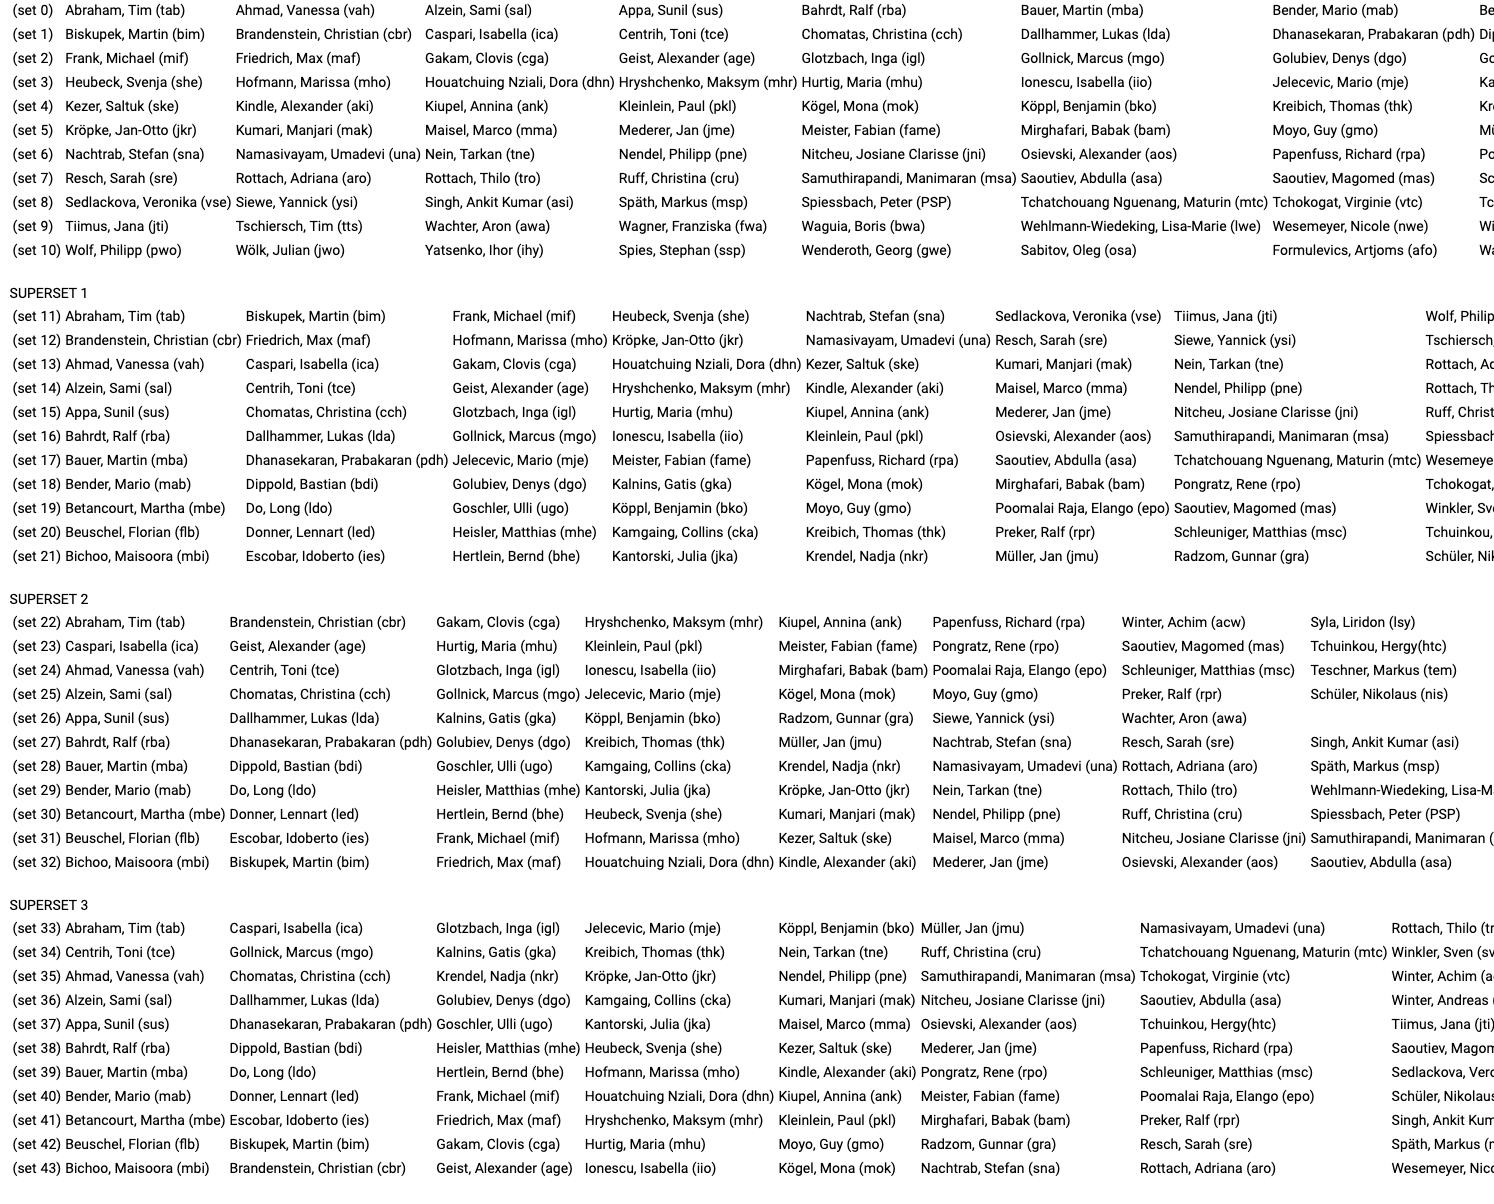
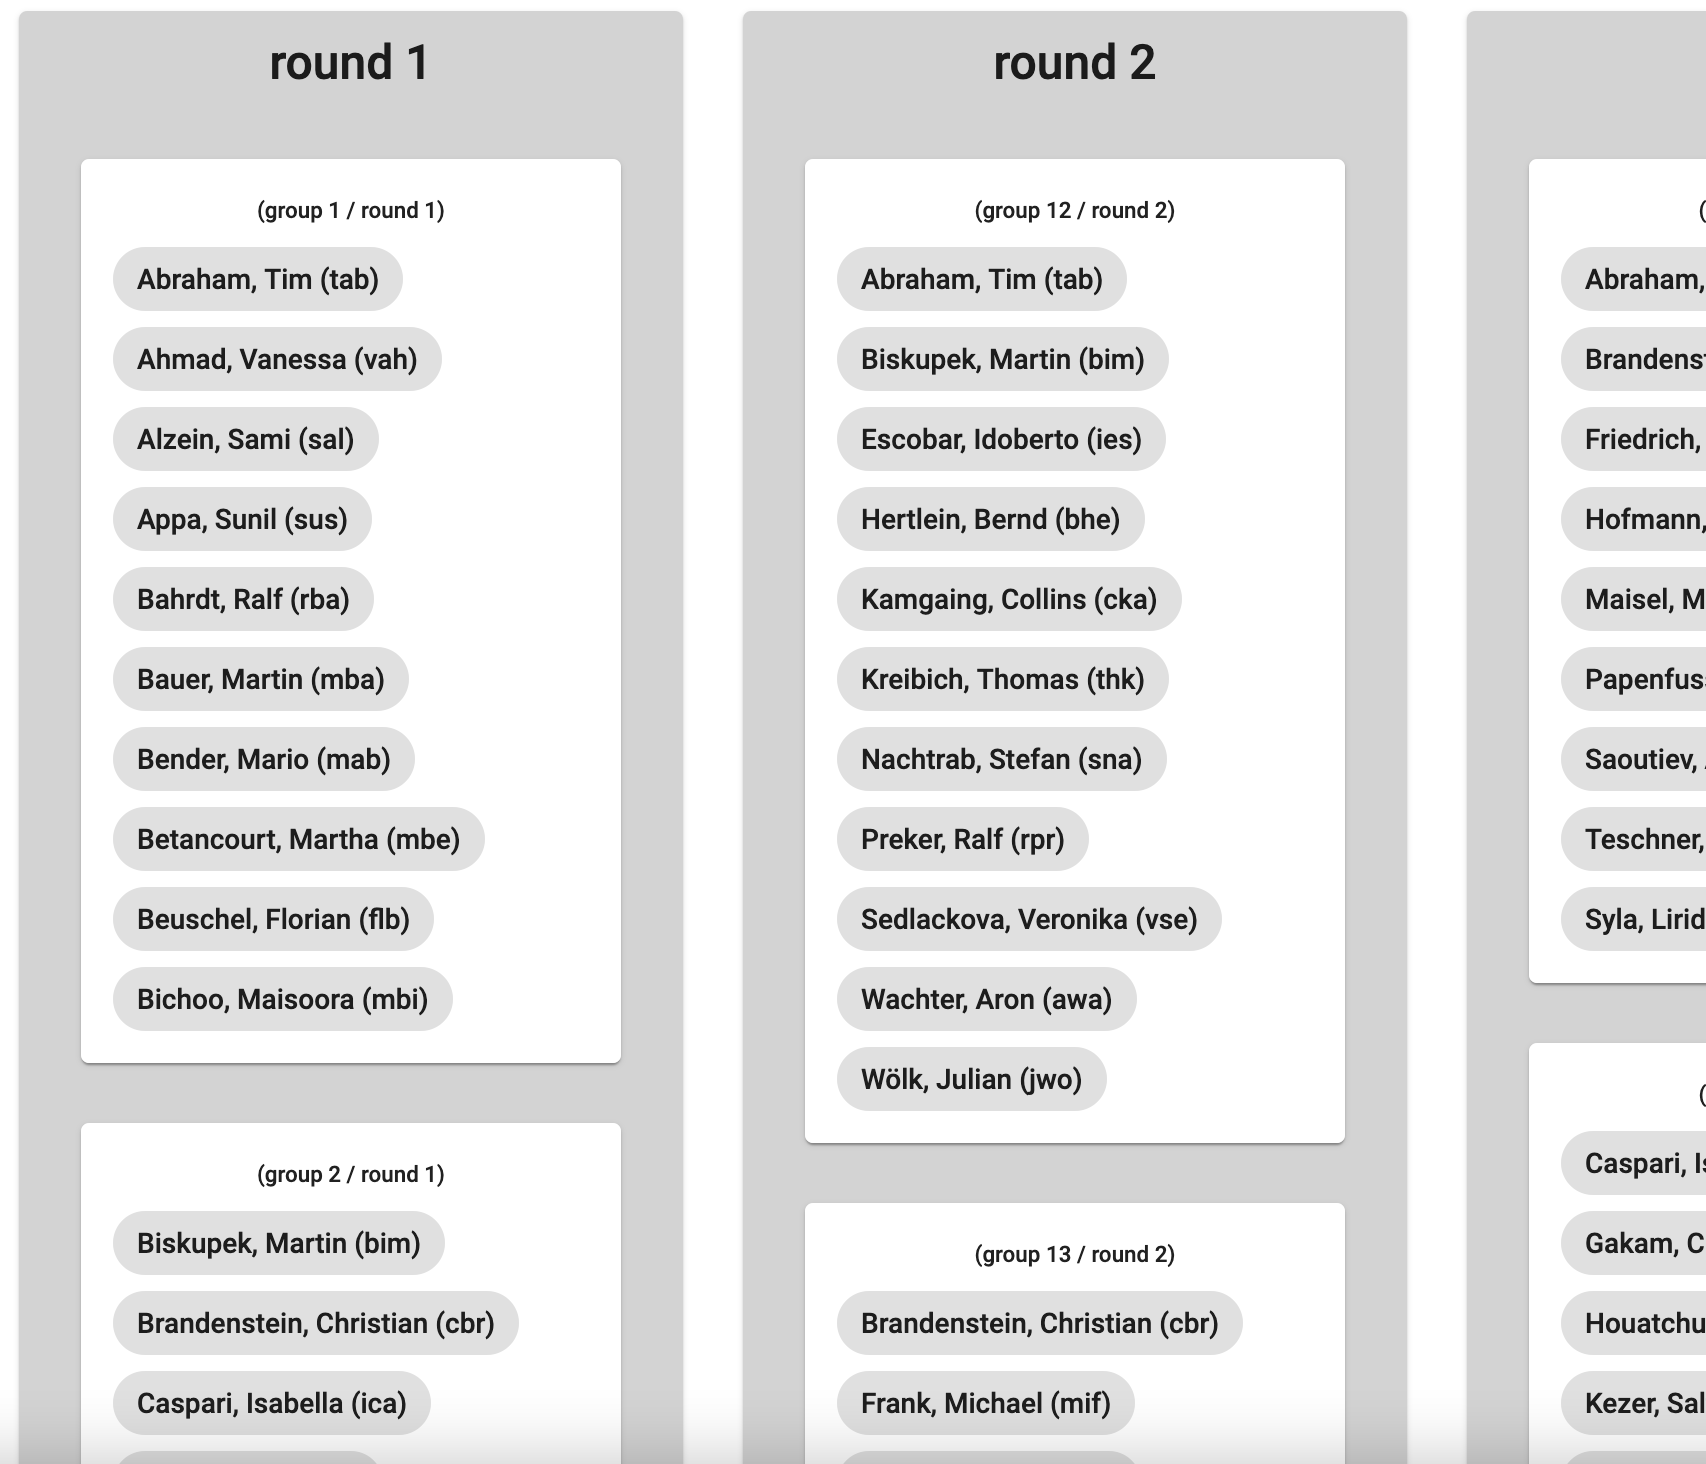
text input started with cards

diff --git a/00.angular.client/src/app/text/text.component.html b/00.angular.client/src/app/text/text.component.html
@@ -1,72 +1,83 @@
 <form [formGroup]="inputForm">
-    <table>
-        <tr valign="top">
-            <td>
+    <div class="card-list">
+        <mat-card class="input-card">
+            <mat-card-content>
                 <mat-form-field>
                     <mat-label>members</mat-label>
-                    <textarea rows="30" matInput formControlName="membersField"></textarea>
+                    <textarea rows="30" cols="100" matInput formControlName="membersField"></textarea>
                 </mat-form-field>
                 <br>
                 <button mat-raised-button (click)="getPermutation()">get permutations</button>
-            </td>
-            <td *ngIf="response != null">
-                <table>
-                    <tr>
-                        <td>status</td>
-                        <td>{{response.metainfo.status}}</td>
-                    </tr>
-                    <tr>
-                        <td>number of elements</td>
-                        <td>{{response.metainfo.numberOfElements}}</td>
-                    </tr>
-                    <tr *ngIf="response.metainfo.status != 'PERFECT'">
-                        <td>elements with more than one match</td>
-                        <td>{{response.metainfo.numberOfElementsWithMoreThanOneMatch}}</td>
-                    </tr>
-                    <tr *ngIf="response.metainfo.status != 'PERFECT'">
-                        <td>max number of matches</td>
-                        <td>{{response.metainfo.maxNumberOfMatchings}}</td>
-                    </tr>
-                    <tr>
-                        <td>fill algorithm</td>
-                        <td>{{response.metainfo.fillAlgorithm}}</td>
-                    </tr>
-                    <tr>
-                        <td>number of supersets</td>
-                        <td>{{response.metainfo.numberOfCycles}}</td>
-                    </tr>
-                    <tr>
-                        <td>max number of sets per superset</td>
-                        <td>{{response.metainfo.maxNumberOfGroups}}</td>
-                    </tr>
-                    <tr>
-                        <td>min number of sets per superset</td>
-                        <td>{{response.metainfo.minNumberOfGroups}}</td>
-                    </tr>
-                    <tr>
-                        <td>max elements in largest set</td>
-                        <td>{{response.metainfo.maxElementsInLargestGroup}}</td>
-                    </tr>
-                    <tr>
-                        <td>min elements in smallest set</td>
-                        <td>{{response.metainfo.minElementsInSmallestGroup}}</td>
-                    </tr>
-                </table>
-            </td>
+            </mat-card-content>
+        </mat-card>
+        <mat-card *ngIf="response != null" class="result-status-card">
+            <mat-card-content>
+            <table>
+                <tr>
+                    <td>status</td>
+                    <td>{{response.metainfo.status}}</td>
+                </tr>
+                <tr>
+                    <td>number of elements</td>
+                    <td>{{response.metainfo.numberOfElements}}</td>
+                </tr>
+                <tr *ngIf="response.metainfo.status != 'PERFECT'">
+                    <td>elements with more than one match</td>
+                    <td>{{response.metainfo.numberOfElementsWithMoreThanOneMatch}}</td>
+                </tr>
+                <tr *ngIf="response.metainfo.status != 'PERFECT'">
+                    <td>max number of matches</td>
+                    <td>{{response.metainfo.maxNumberOfMatchings}}</td>
+                </tr>
+                <tr>
+                    <td>fill algorithm</td>
+                    <td>{{response.metainfo.fillAlgorithm}}</td>
+                </tr>
+                <tr>
+                    <td>number of supersets</td>
+                    <td>{{response.metainfo.numberOfCycles}}</td>
+                </tr>
+                <tr>
+                    <td>max number of sets per superset</td>
+                    <td>{{response.metainfo.maxNumberOfGroups}}</td>
+                </tr>
+                <tr>
+                    <td>min number of sets per superset</td>
+                    <td>{{response.metainfo.minNumberOfGroups}}</td>
+                </tr>
+                <tr>
+                    <td>max elements in largest set</td>
+                    <td>{{response.metainfo.maxElementsInLargestGroup}}</td>
+                </tr>
+                <tr>
+                    <td>min elements in smallest set</td>
+                    <td>{{response.metainfo.minElementsInSmallestGroup}}</td>
+                </tr>
+            </table>
+            </mat-card-content>
+        </mat-card>
+    </div>
 
-            <td *ngIf="response != null">
-                <span *ngFor="let cycle of response.cycles; let i = index">
-                SUPERSET {{i}}
-                    <table>
-                    <tr *ngFor="let group of cycle; let j = index">
-                        <td class="tiny">(set </td>
-                        <td class="tiny">{{i * response.square.dimension + j}})</td>
-                        <td *ngFor="let element of group">{{element == undefined ? " . " : memberArray[element]}}</td>
-                    </tr>
-                </table>
-                <br>
-                </span>
-            </td>
-        </tr>
-    </table>
+    <div *ngIf="response != null" class="card-list">
+        <mat-card *ngFor="let cycle of response.cycles; let i = index" class="superset-card">
+            <mat-card-content>
+                <mat-card-title>round {{i + 1}}
+                </mat-card-title>
+                <div class="card-list">
+                    <mat-card *ngFor="let group of cycle; let j = index" class="set-card">
+                        <mat-card-content>
+                            <mat-card-title class="tiny">
+                                (group {{i * response.square.dimension + j + 1}} / round {{i + 1}})
+                            </mat-card-title>
+                            <mat-chip-list>
+                                <mat-chip
+                                        *ngFor="let element of group">{{element == undefined ? " . " : memberArray[element]}}</mat-chip>
+                            </mat-chip-list>
+                        </mat-card-content>
+                    </mat-card>
+                </div>
+            </mat-card-content>
+        </mat-card>
+    </div>
+
 </form>

diff --git a/00.angular.client/src/app/home/home.component.html b/00.angular.client/src/app/home/home.component.html
@@ -1,18 +1,17 @@
 <div class="card-list">
     <mat-card (click)="gotToInput()">
         <mat-card-title>matematical view
-            <mat-card-content class="math-view"></mat-card-content>
+            <mat-card-content class="view view-math"></mat-card-content>
         </mat-card-title>
     </mat-card>
     <mat-card (click)="gotToText()">
         <mat-card-title>text view
-            <mat-card-content class="text-view"></mat-card-content>
+            <mat-card-content class="view view-text"></mat-card-content>
         </mat-card-title>
     </mat-card>
     <mat-card (click)="gotToPdf()">
             <mat-card-title>explanation
-                <mat-card-content class="pdf-view"></mat-card-content>
+                <mat-card-content class="view view-pdf"></mat-card-content>
             </mat-card-title>
     </mat-card>
-
 </div>

diff --git a/00.angular.client/src/app/home/home.component.css b/00.angular.client/src/app/home/home.component.css
@@ -19,16 +19,7 @@ mat-card:hover {
     background: rgba(0, 0, 0, .04);
 }
 
-.math-view {
-    background-image: url("/assets/math-view.png");
-    border-radius: 50%;
-    height: 150px;
-    width: 150px;
-    margin: 30px;
-    background-size:contain;
-}
-.text-view {
-    background-image: url("/assets/text-view.png");
+.view {
     border-radius: 50%;
     height: 150px;
     width: 150px;
@@ -36,13 +27,16 @@ mat-card:hover {
     background-size:contain;
 }
 
-.pdf-view {
+.view-math {
+    background-image: url("/assets/math-view.png");
+}
+
+.view-text {
+    background-image: url("/assets/text-view.png");
+}
+
+.view-pdf {
     background-image: url("/assets/pdf-view.png");
-    border-radius: 50%;
-    width: 150px;
-    height: 150px;
-    margin: 30px;
-    background-size:contain;
 }
 
 

diff --git a/00.angular.client/src/app/app.module.ts b/00.angular.client/src/app/app.module.ts
@@ -16,6 +16,7 @@ import {ApiModule} from "./api";
 import { TextComponent } from './text/text.component';
 import {MatCheckboxModule} from "@angular/material/checkbox";
 import {MatCardModule} from "@angular/material/card";
+import {MatChipsModule} from "@angular/material/chips";
 
 @NgModule({
     declarations: [
@@ -36,7 +37,8 @@ import {MatCardModule} from "@angular/material/card";
         ApiModule,
         HttpClientModule,
         MatCheckboxModule,
-        MatCardModule
+        MatCardModule,
+        MatChipsModule
     ],
     providers: [{provide: MAT_FORM_FIELD_DEFAULT_OPTIONS, useValue: {appearance: 'fill'}}],
     bootstrap: [AppComponent]

diff --git a/00.angular.client/src/app/text/text.component.css b/00.angular.client/src/app/text/text.component.css
@@ -1,0 +1,42 @@
+mat-form-field {
+    width:100%;
+}
+
+.tiny {
+    font-size:0.8em;
+    white-space: nowrap;
+
+}
+
+.card-list {
+    display: flex;
+    flex-wrap: wrap;
+    align-content: center;
+    justify-content: center;
+    padding-top: 15px;
+}
+
+.result-status-card {
+    width: 400px;
+}
+.input-card {
+    width: 400px;
+}
+
+
+mat-card {
+    text-align: center;
+    text-decoration: none;
+    display: flex;
+    margin: 15px;
+}
+
+.set-card {
+    width: 90%;
+    background: whitesmoke;
+}
+
+.superset-card {
+    width: 300px;
+    background: lightgrey;
+}
